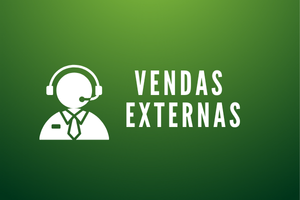
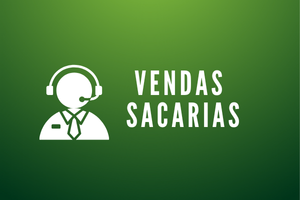
Alterações visuais na venda / Adição da Opção Sacaria para insersão manual no estoque

Changed region(s): [[0.42, 0.51, 0.81, 0.66]]

diff --git a/estoque/estoque.php b/estoque/estoque.php
@@ -1,30 +1,46 @@
 <?php
+
+require_once '../conexaohost/conexao.php';
+
 session_start();
-
-$host = 'localhost';
-$user = 'root';
-$pass = '';
-$db = 'fertiquim';
-
-$conn = new mysqli($host, $user, $pass, $db);
-if ($conn->connect_error) {
-  die('Erro de conexão: ' . $conn->connect_error);
-}
+include('../sessao/verifica_sessao.php');
 
 if (isset($_POST['adicionar'])) {
-  $nome = $_POST['nome'];
-  $quantidade = $_POST['quantidade'];
-  $unidade = $_POST['unidade'];
-  $tipo = $_POST['tipo'];
-  $usuario = $_SESSION['usuario'];
+    $nome = $_POST['nome'];
+    $quantidade = floatval($_POST['quantidade']);
+    $unidade = $_POST['unidade'];
+    $tipo = $_POST['tipo'];
+    $usuario = $_SESSION['nome_usuario'] ?? 'Desconhecido';
 
-  $conn->query("INSERT INTO estoque_fertilizantes (nome_produto, quantidade, unidade, tipo, data_atualizacao, usuario) 
-                VALUES ('$nome', $quantidade, '$unidade', '$tipo', NOW(), '$usuario')");
+    // Verifica se já existe o mesmo produto e unidade
+    $check = $conn->query("SELECT id, quantidade FROM estoque_fertilizantes 
+                           WHERE nome_produto = '$nome' AND unidade = '$unidade'");
+
+    if ($check && $check->num_rows > 0) {
+        // Se existir, atualiza a quantidade
+        $row = $check->fetch_assoc();
+        $nova_qtd = $row['quantidade'] + $quantidade;
+
+        $conn->query("UPDATE estoque_fertilizantes 
+                      SET quantidade = $nova_qtd, 
+                          data_atualizacao = NOW(), 
+                          usuario = '$usuario' 
+                      WHERE id = {$row['id']}");
+    } else {
+        // Se não existir, insere um novo registro
+        $conn->query("INSERT INTO estoque_fertilizantes 
+                      (nome_produto, quantidade, unidade, tipo, data_atualizacao, usuario) 
+                      VALUES ('$nome', $quantidade, '$unidade', '$tipo', NOW(), '$usuario')");
+    }
+
+    // Redireciona para evitar duplicação no refresh
+    header("Location: estoque.php");
+    exit;
 }
 
 if (isset($_GET['remover'])) {
-  $id = $_GET['remover'];
-  $conn->query("DELETE FROM estoque_fertilizantes WHERE id = $id");
+    $id = intval($_GET['remover']);
+    $conn->query("DELETE FROM estoque_fertilizantes WHERE id = $id");
 }
 
 $result = $conn->query("SELECT * FROM estoque_fertilizantes ORDER BY data_atualizacao DESC");
@@ -60,12 +76,13 @@ $result = $conn->query("SELECT * FROM estoque_fertilizantes ORDER BY data_atuali
       <input type="text" name="unidade" placeholder="Unidade (ex: kg, L)" required>
       
       <select name="tipo" required>
-                <option value="">Selecione</option>
-                <option value="Material de informática">Material de informática</option>
-                <option value="Ferramentas">Ferramentas</option>
-                <option value="Matéria-prima">Matéria-prima</option>
-                <option value="Material de Escritorio">Material de Escritório</option>
-                <option value="EPI">EPi's</option>
+        <option value="">Selecione</option>
+        <option value="Material de informática">Material de informática</option>
+        <option value="Ferramentas">Ferramentas</option>
+        <option value="Matéria-prima">Matéria-prima</option>
+        <option value="Material de Escritorio">Material de Escritório</option>
+        <option value="EPI">EPi's</option>
+        <option value="Saca 50kg">Sacaria</option>
       </select>
 
       <button type="submit" name="adicionar">Adicionar</button>

diff --git a/estoque/estoquevisu.php b/estoque/estoquevisu.php
@@ -1,4 +1,5 @@
 <?php
+require_once '../conexaohost/conexao.php';
 session_start();
 include('../sessao/verifica_sessao.php');
 
@@ -7,17 +8,6 @@ restringirAcesso(['Almoxarifado', 'Administrador', 'Proprietario']);
 if (!isset($_SESSION['nome_usuario'])) {
     header('Location: ../pglogin/pglogin.php');
     exit;
-}
-
-// Conexão com o banco
-$host = 'localhost';
-$user = 'root';
-$pass = '';
-$db = 'fertiquim';
-
-$conn = new mysqli($host, $user, $pass, $db);
-if ($conn->connect_error) {
-    die('Erro de conexão: ' . $conn->connect_error);
 }
 
 // Filtros
@@ -91,6 +81,7 @@ $result = $conn->query($sql);
         <option value="Ferramentas" <?php if ($tipo === 'Ferramentas') echo 'selected'; ?>>Ferramentas</option>
         <option value="Matéria-prima" <?php if ($tipo === 'Matéria-prima') echo 'selected'; ?>>Matéria-prima</option>
         <option value="Material de Escritório" <?php if ($tipo === 'Material de Escritório') echo 'selected'; ?>>Material de Escritório</option>
+        <option value="Saca 50kg" <?php if ($tipo === 'Saca 50kg') echo 'selected'; ?>>Sacaria</option>
       </select>
       <button type="submit">Filtrar</button>
     </form>

diff --git a/conexaohost/conexao.php b/conexaohost/conexao.php
@@ -1,0 +1,12 @@
+<?php
+
+    $host = 'localhost';
+    $user = 'root';
+    $pass = '';
+    $db = 'fertiquim';
+   
+    $conn = new mysqli($host, $user, $pass, $db);
+        if ($conn->connect_error) {
+            die('Erro de conexão: ' . $conn->connect_error);
+        }
+?>
